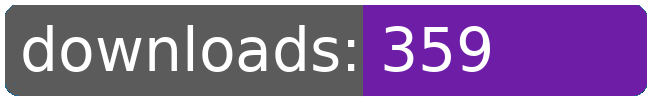
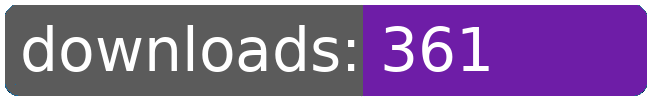
dl log written

Changed region(s): [[0.6462, 0.24, 0.7692, 0.72]]

diff --git a/README.md b/README.md
@@ -21,8 +21,8 @@
 		<td>1509</td>
 		<td>1534</td>
 		<td>1564</td>
-		<td>1579</td>
-		<td>+ 15</td>
+		<td>1580</td>
+		<td>+ 16</td>
 	</tr>
 	<tr>
 		<td>aberrant.kahet.outfitter</td>
@@ -197,8 +197,8 @@
 		<td>285</td>
 		<td>311</td>
 		<td>345</td>
-		<td>359</td>
-		<td>+ 14</td>
+		<td>361</td>
+		<td>+ 16</td>
 	</tr>
 	<tr>
 		<td>tributequarg</td>
@@ -252,8 +252,8 @@
 		<td></td>
 		<td></td>
 		<td></td>
-		<td>22165</td>
-		<td>296</td>
+		<td>22168</td>
+		<td>299</td>
 	</tr>
 </table>
 </sub></sup>
@@ -311,8 +311,8 @@
 		<td>1509</td>
 		<td>1534</td>
 		<td>1564</td>
-		<td>1579</td>
-		<td>+ 15</td>
+		<td>1580</td>
+		<td>+ 16</td>
 	</tr>
 	<tr>
 		<td>purchase.bactrian</td>
@@ -465,8 +465,8 @@
 		<td>285</td>
 		<td>311</td>
 		<td>345</td>
-		<td>359</td>
-		<td>+ 14</td>
+		<td>361</td>
+		<td>+ 16</td>
 	</tr>
 	<tr>
 		<td>avgi.outfitter</td>
@@ -509,8 +509,8 @@
 		<td></td>
 		<td></td>
 		<td></td>
-		<td>22165</td>
-		<td>296</td>
+		<td>22168</td>
+		<td>299</td>
 	</tr>
 </table>
 </sub></sup>
